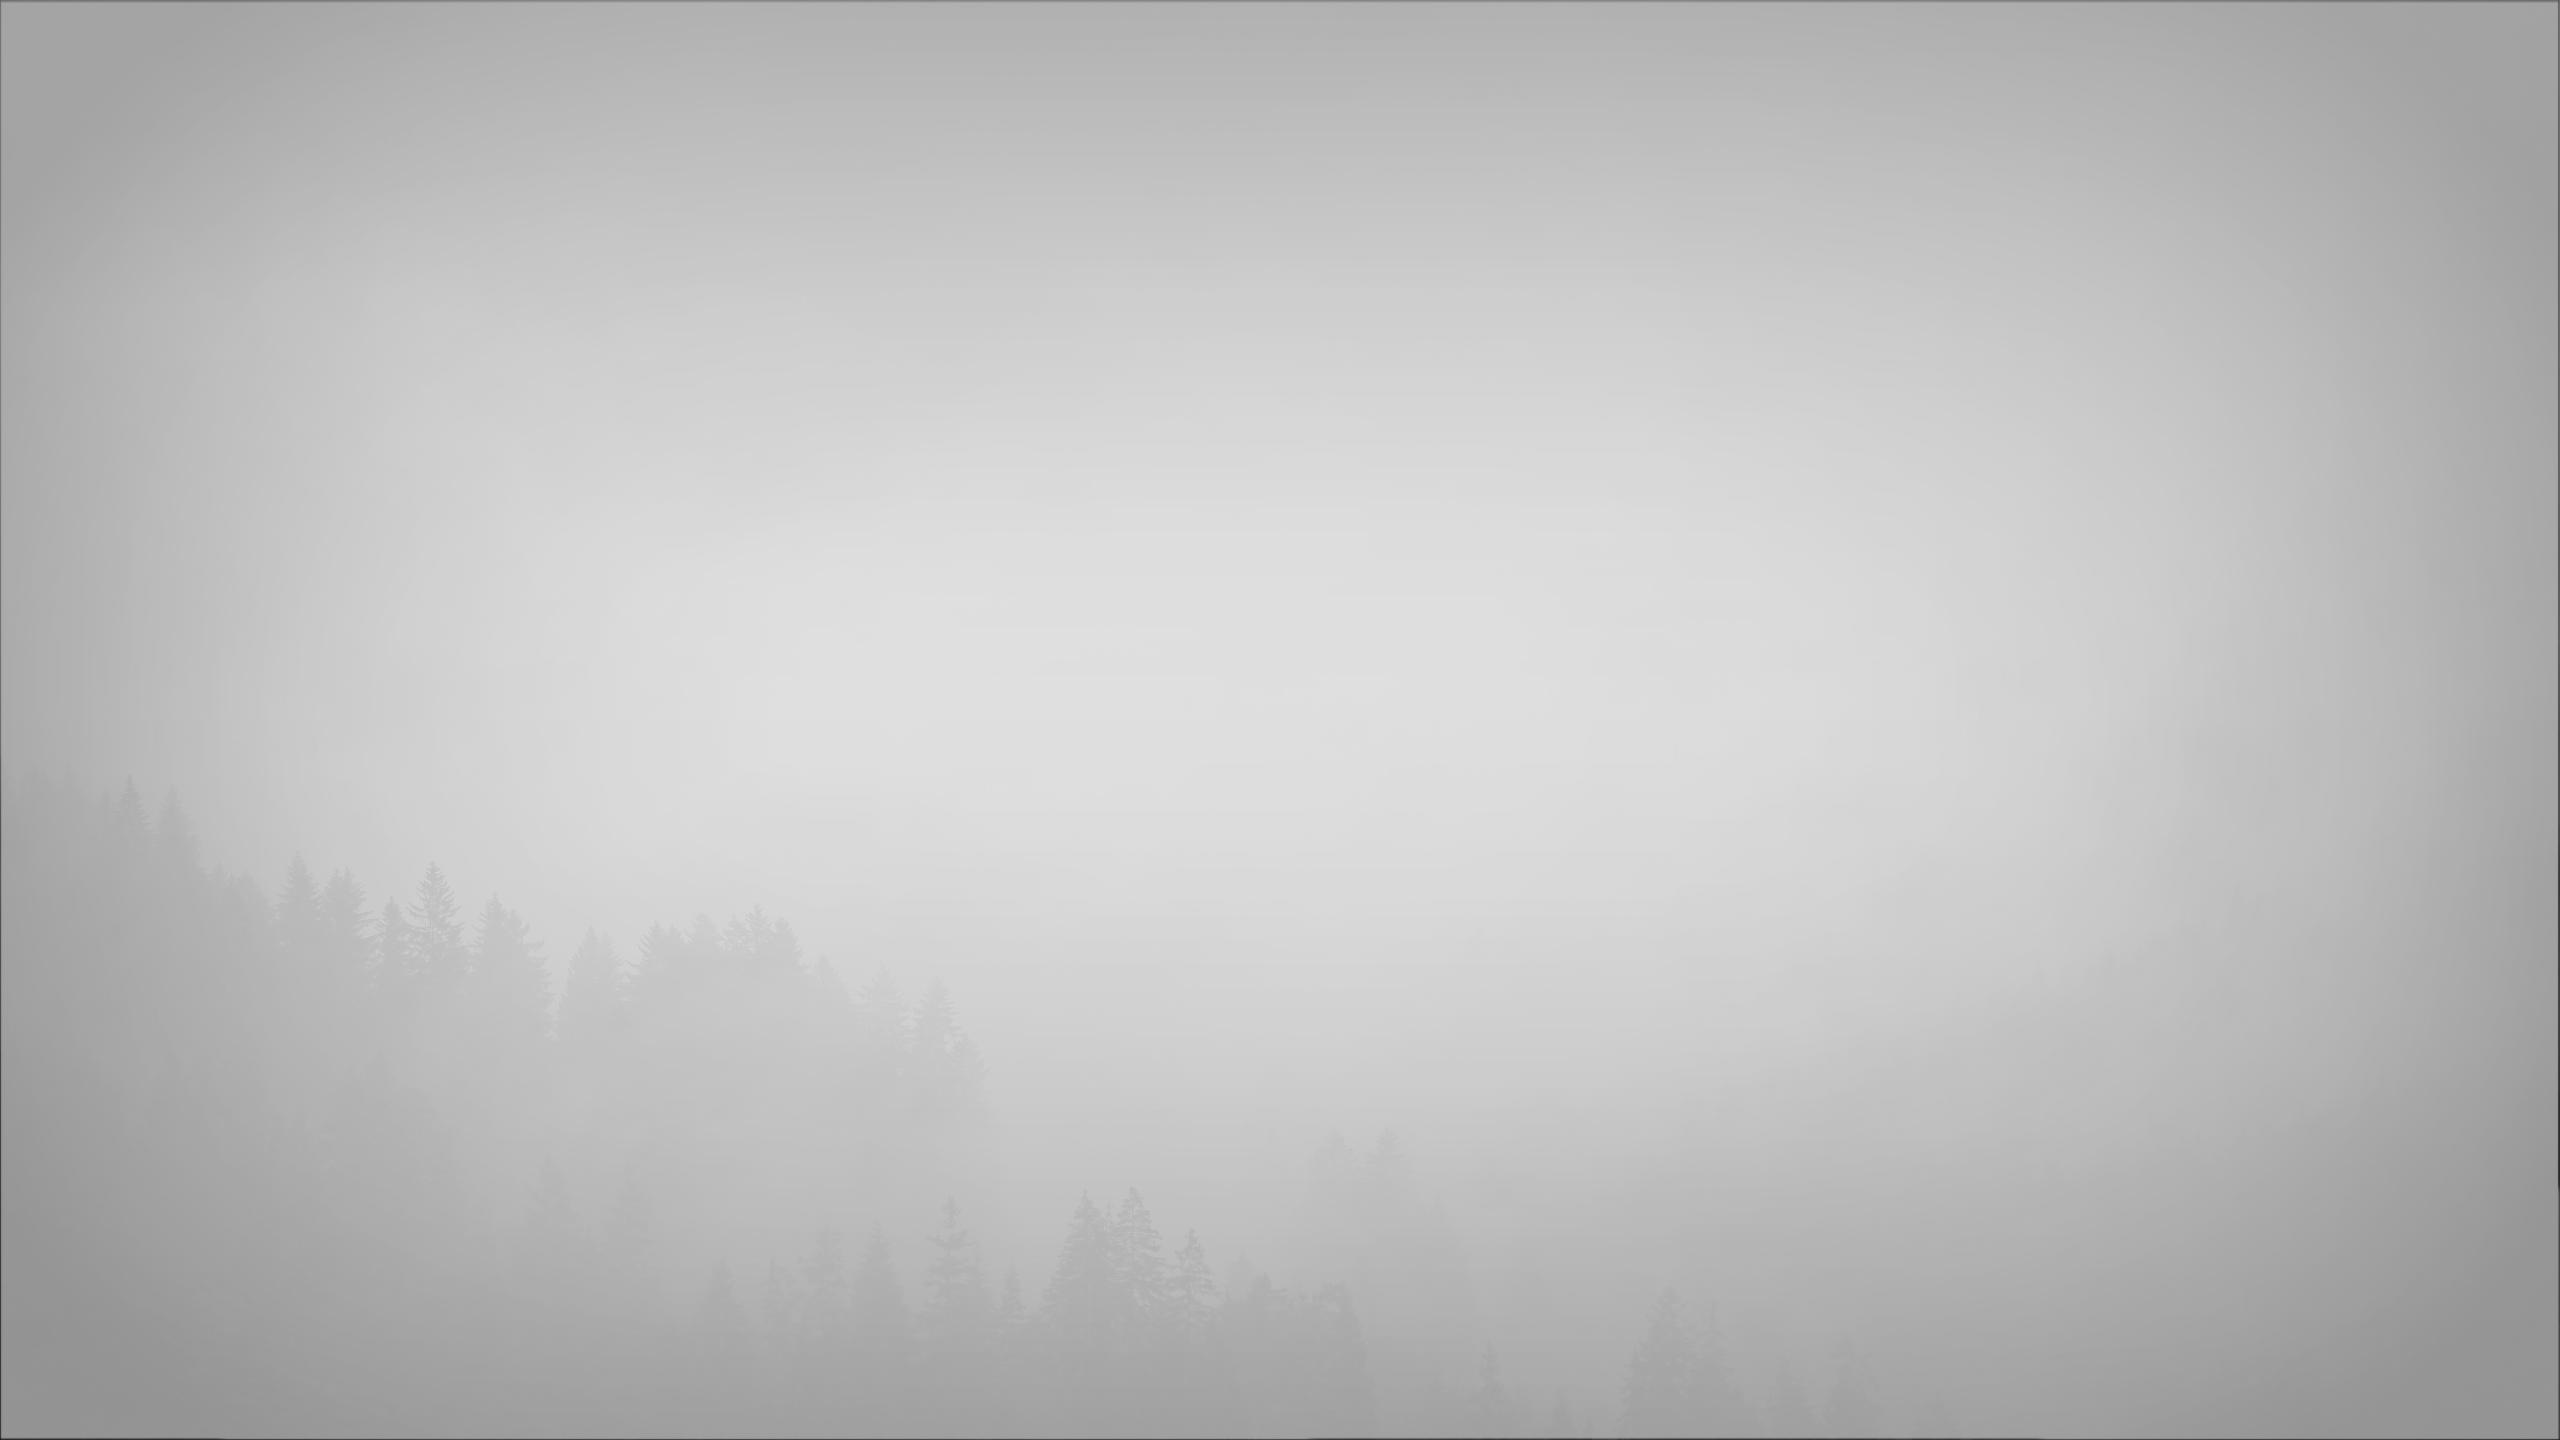
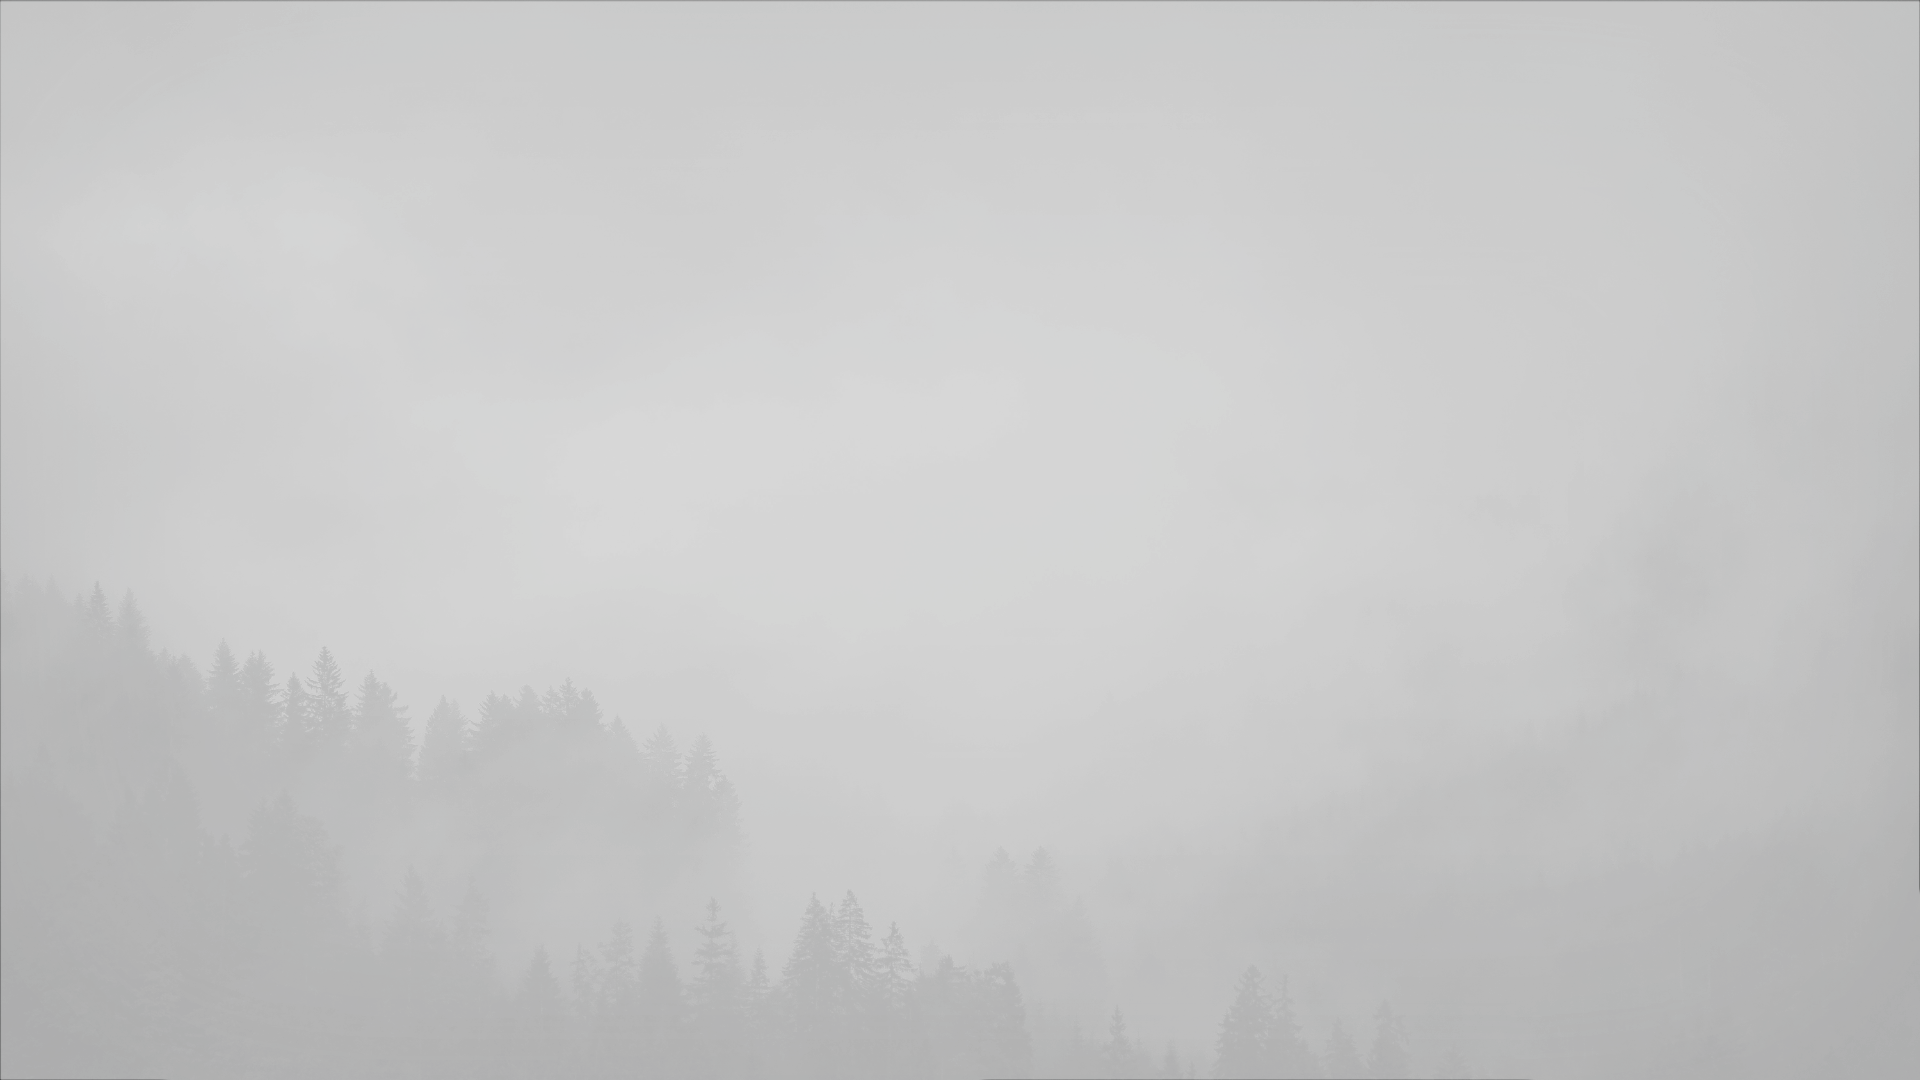
Update

Changed region(s): [[0.0, 0.0, 1.0, 0.5194], [0.8438, 0.7028, 1.0, 1.0], [0.0, 0.7639, 0.1562, 1.0]]

diff --git a/cabin-app/src/styles/BaseStyle.js b/cabin-app/src/styles/BaseStyle.js
@@ -3,7 +3,7 @@ import backgroundGray from "../images/background_Gray.png";
 import campingLogo from "../images/camping_Logo.png";
 
 export const MainBody = styled.div`
-  background: url(${backgroundGray}) no-repeat center center fixed; 
+  background: url(${backgroundGray}) no-repeat center center fixed;
   -webkit-background-size: cover;
   -moz-background-size: cover;
   -o-background-size: cover;
@@ -13,6 +13,7 @@ export const MainBody = styled.div`
   overflow-x:hidden;
   margin: 0;
   padding: 0;
+  box-shadow:inset 0px 0px 80vw #333;
   position: relative;
 `
 

diff --git a/cabin-app/src/components/CalendarComponent.js b/cabin-app/src/components/CalendarComponent.js
@@ -3,7 +3,7 @@ import { Calendar, MonthPanel, WeekGrid, Days, DayGrid } from "../styles/InputSt
 import { dayNames, monthNames, reservations } from "../mockup/calendarData";
 import { ChangeState } from "../helpers/HelperFunctions";
 
-export const DatePicker = () => {
+export const CalendarComponent = () => {
   const [currentDays, setCurrentDays] = useState();
   const [currentMonth, setCurrentMonth] = useState(new Date().getMonth());
   const [currentYear, setCurrentYear] = useState(new Date().getFullYear());

diff --git a/cabin-app/src/App.js b/cabin-app/src/App.js
@@ -6,9 +6,9 @@ import NavigationComponent from "./components/NavigationComponent";
 function App() {
   return (
     <MainBody>
-      {/* <NavigationComponent /> */}
-      <LoginPage />
-      <Logo />
+      <NavigationComponent />
+      {/*       <LoginPage />
+      <Logo /> */}
     </MainBody>
   );
 }
